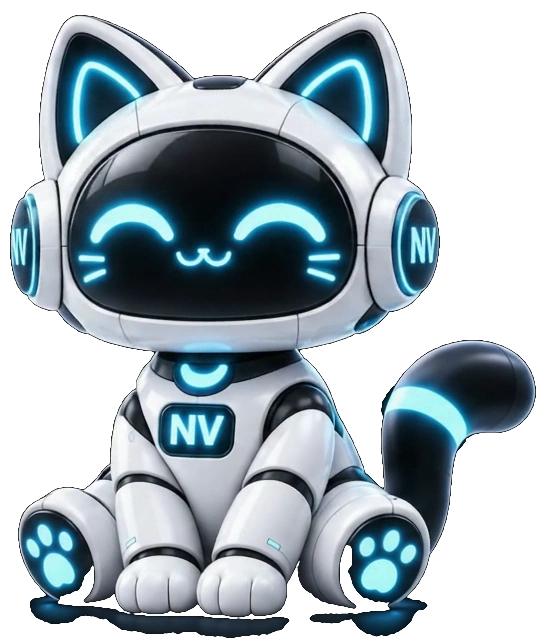
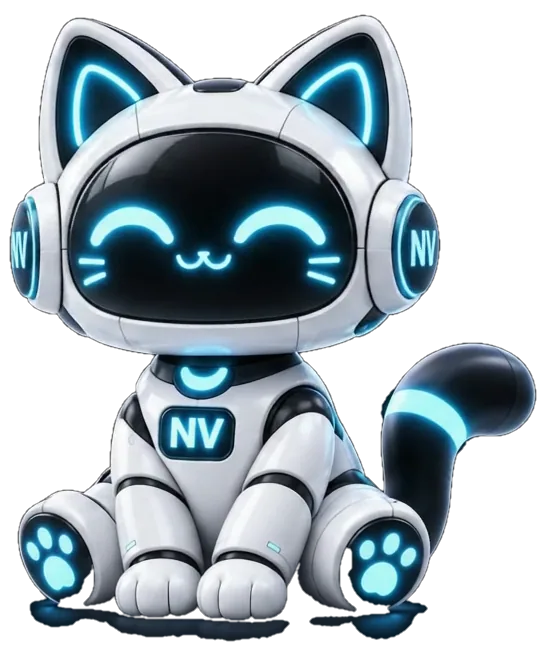
Revert "Hero: kunci badan dan ekor Neru, hanya kepala yang menoleh"
This reverts commit b61903a1f31d78059009140edba2f6a15b7aae98.

diff --git a/index.html b/index.html
@@ -79,7 +79,7 @@ button{font:inherit}
 @keyframes rise{to{opacity:1;transform:none}}
 .hero .neru{position:absolute;left:calc(var(--u) * 58.4);top:calc(var(--u) * 12.5);width:calc(var(--u) * 39);z-index:3;
   transform:translate3d(0,calc(var(--hp,0) * -110px),0) scale(calc(1 + var(--hp,0) * .08)) rotate(calc(var(--hp,0) * -3deg));will-change:transform}
-.hero .neru{aspect-ratio:542/644;filter:drop-shadow(0 24px 30px rgba(8,8,8,.18))}
+.hero .neru{aspect-ratio:547/648;filter:drop-shadow(0 24px 30px rgba(8,8,8,.18))}
 .hero .neru img,.hero .neru canvas{position:absolute;inset:0;width:100%;height:100%;object-fit:contain}
 .hero .neru canvas{display:none}
 .hero .neru.live canvas{display:block}
@@ -245,7 +245,7 @@ footer{z-index:6;padding:clamp(80px,8vw,110px) var(--pad) 48px;box-shadow:0 -12p
   <h1 class="title" id="h1" aria-label="NERUVIA">
     <span style="--i:0" aria-hidden="true">N</span><span style="--i:1" aria-hidden="true">E</span><span style="--i:2" aria-hidden="true">R</span><span style="--i:3" aria-hidden="true">U</span><span style="--i:4" aria-hidden="true">V</span><span style="--i:5" aria-hidden="true">I</span><span style="--i:6" aria-hidden="true">A</span>
   </h1>
-  <div class="neru" id="neru"><img src="assets/neru.webp" width="1024" height="1272" alt="Neru, maskot NERUVIA, robot kucing berheadphone dengan mata cyan menyala" fetchpriority="high"><canvas width="542" height="644" aria-hidden="true"></canvas></div>
+  <div class="neru" id="neru"><img src="assets/neru.webp" width="1024" height="1272" alt="Neru, maskot NERUVIA, robot kucing berheadphone dengan mata cyan menyala" fetchpriority="high"><canvas width="547" height="648" aria-hidden="true"></canvas></div>
   <div class="copy">
     <p class="lead">Belajar AI &amp; Cybersecurity, dari nol, dalam bahasa Indonesia.</p>
     <div class="btns">

diff --git a/README.md b/README.md
@@ -34,4 +34,4 @@ Harga, nama jalur, dan teks legal masih placeholder dan perlu ditinjau sebelum r
 - Logo NV dipakai inline (SVG `currentColor`) di navbar dan footer, ikon tab dari `assets/brand/`
 - `assets/brand/` — logo NV dan wordmark NERUVIA (SVG dan PNG) berwarna cyan `#38E1FF` dan hitam `#080808`
 - `assets/brand/maskot/` — tiga gambar maskot Neru terbaru (18 Nov 2026): miring kanan, depan, miring kiri
-- `assets/maskot-animasi/` — animasi Neru menoleh (dibuat dari video Gemini, 18 Nov 2026), latar transparan: `neru-menoleh.webm` (0,7 MB, paling ringan), `neru-menoleh-web.webp` (5,5 MB, cadangan untuk browser tanpa WebM alpha), dan `neru-menoleh-sumber.mp4` (video asli berlatar hitam, bahan untuk membuat ulang). Folder `frames/` berisi 21 frame (badan dan ekor dikunci dari satu pose, hanya kepala yang berganti) (f00–f20, urut dari menoleh paling kiri ke paling kanan) yang dipakai hero: Neru menoleh ke arah kursor lewat `<canvas>` (hanya untuk mouse; di layar sentuh ia menoleh pelan sendiri; `prefers-reduced-motion` dan tanpa JS memakai gambar diam `assets/neru.webp`). Neru di bagian Cara belajar tidak diubah.
+- `assets/maskot-animasi/` — animasi Neru menoleh (dibuat dari video Gemini, 18 Nov 2026), latar transparan: `neru-menoleh.webm` (0,7 MB, paling ringan), `neru-menoleh-web.webp` (5,5 MB, cadangan untuk browser tanpa WebM alpha), dan `neru-menoleh-sumber.mp4` (video asli berlatar hitam, bahan untuk membuat ulang). Folder `frames/` berisi 21 frame (f00–f20, urut dari menoleh paling kiri ke paling kanan) yang dipakai hero: Neru menoleh ke arah kursor lewat `<canvas>` (hanya untuk mouse; di layar sentuh ia menoleh pelan sendiri; `prefers-reduced-motion` dan tanpa JS memakai gambar diam `assets/neru.webp`). Neru di bagian Cara belajar tidak diubah.
